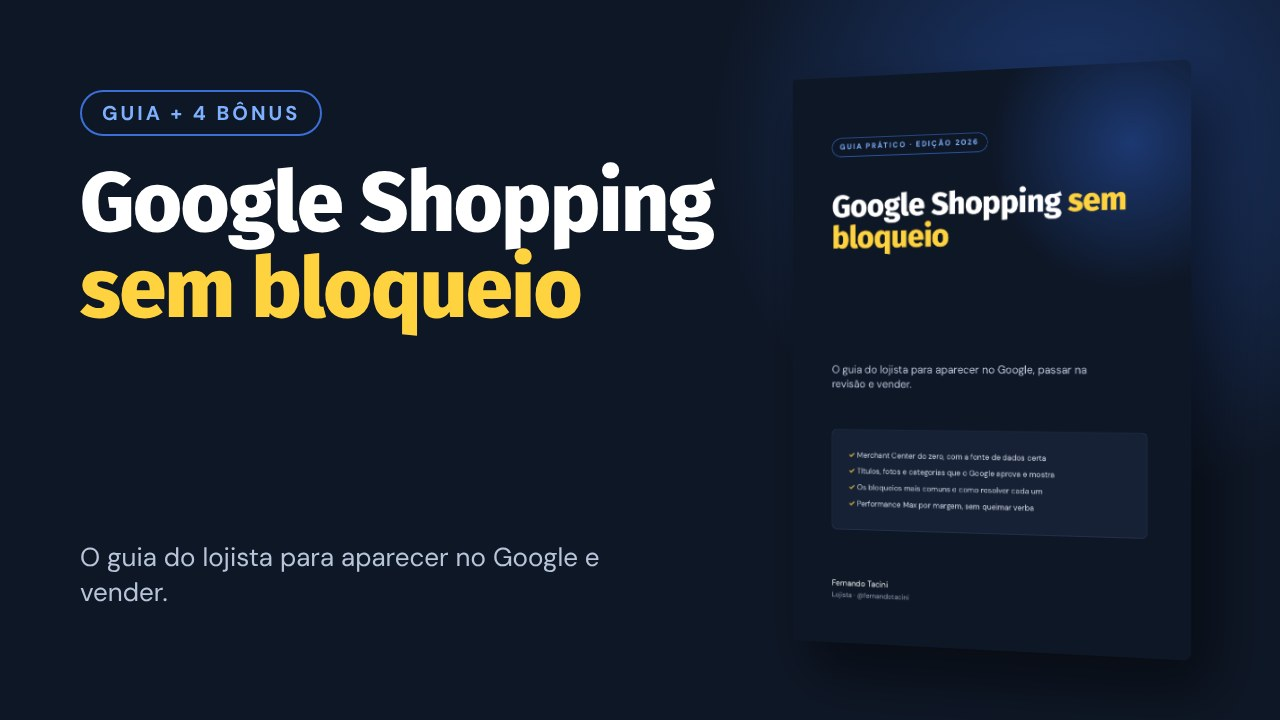
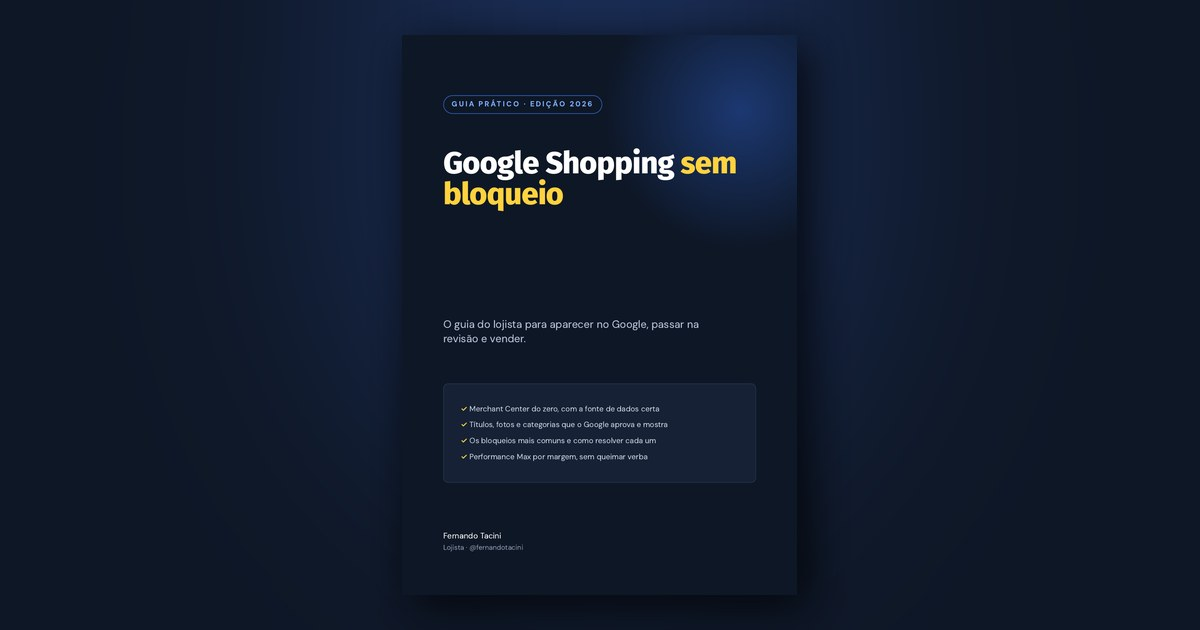
Miniatura de compartilhamento centralizada

diff --git a/sem-bloqueio.html b/sem-bloqueio.html
@@ -7,9 +7,11 @@
 <meta property="og:type" content="product">
 <meta property="og:title" content="Google Shopping sem bloqueio | Fernando Tacini">
 <meta property="og:description" content="O passo a passo de um lojista para tirar a loja do bloqueio do Merchant Center e aparecer no Google Shopping.">
-<meta property="og:image" content="https://www.fernandotacini.com/og-sem-bloqueio.jpg">
+<meta property="og:image" content="https://www.fernandotacini.com/og-sem-bloqueio-v2.jpg">
 <meta property="og:url" content="https://www.fernandotacini.com/sem-bloqueio">
 <meta name="twitter:card" content="summary_large_image">
+<meta property="og:image:width" content="1200">
+<meta property="og:image:height" content="630">
 <meta name="twitter:site" content="@fernandotacini">
 <link rel="icon" href="/sb-fernando-avatar.jpg">
 <style>html,body{margin:0;padding:0;background:#0e1726}</style>
